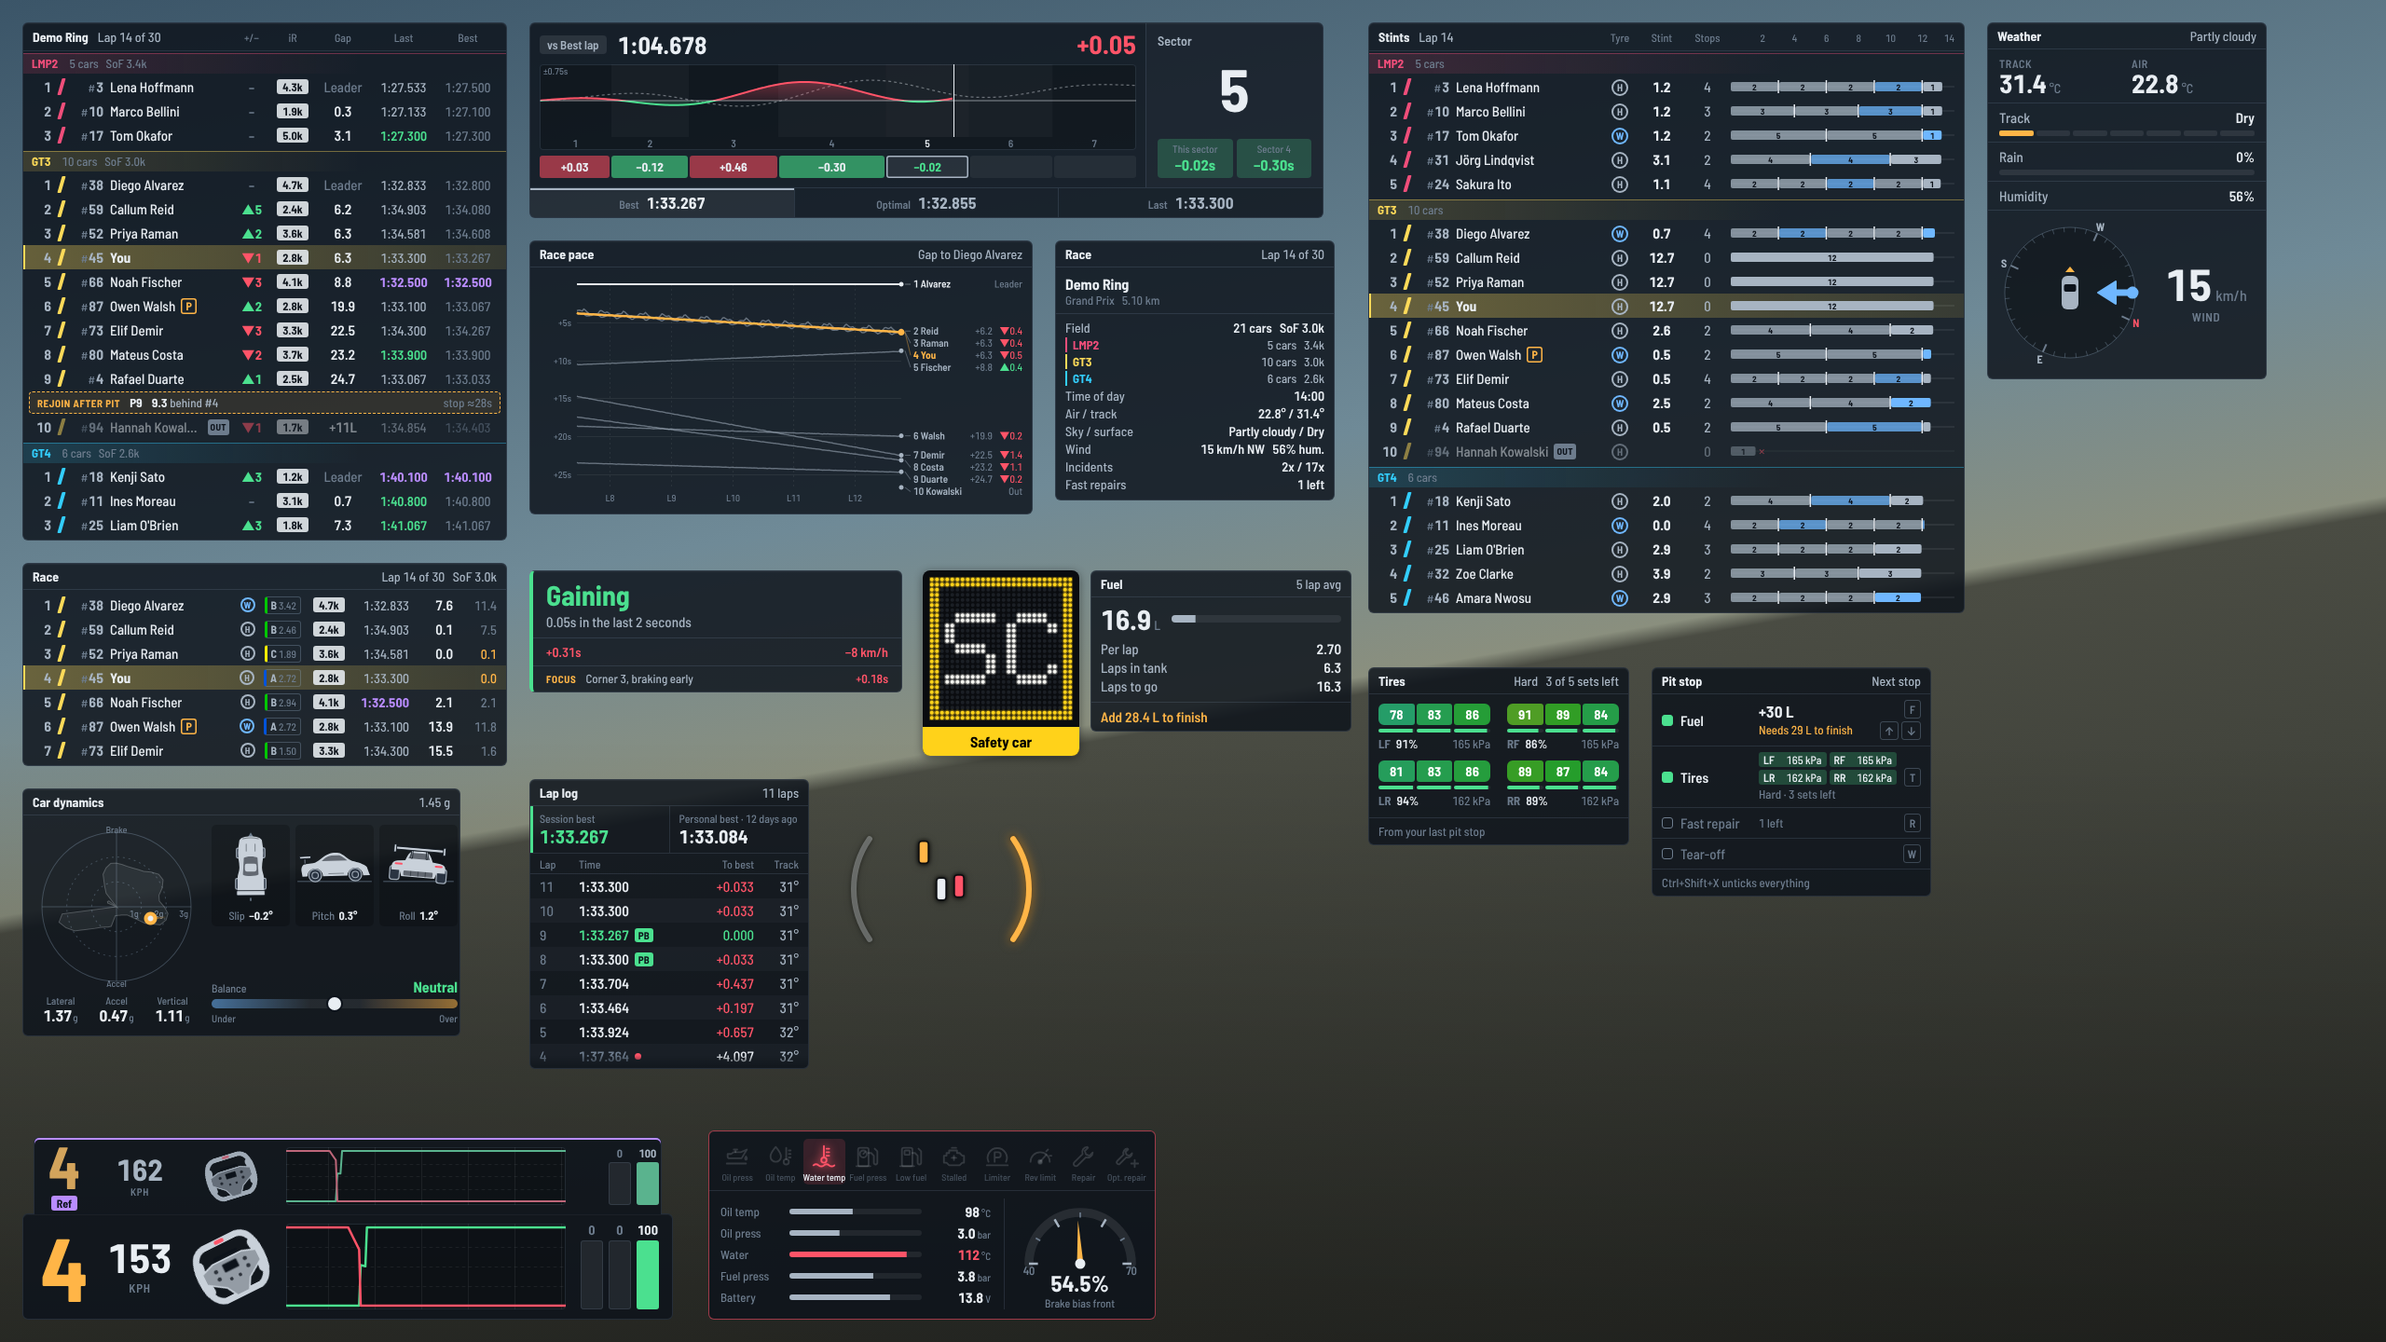
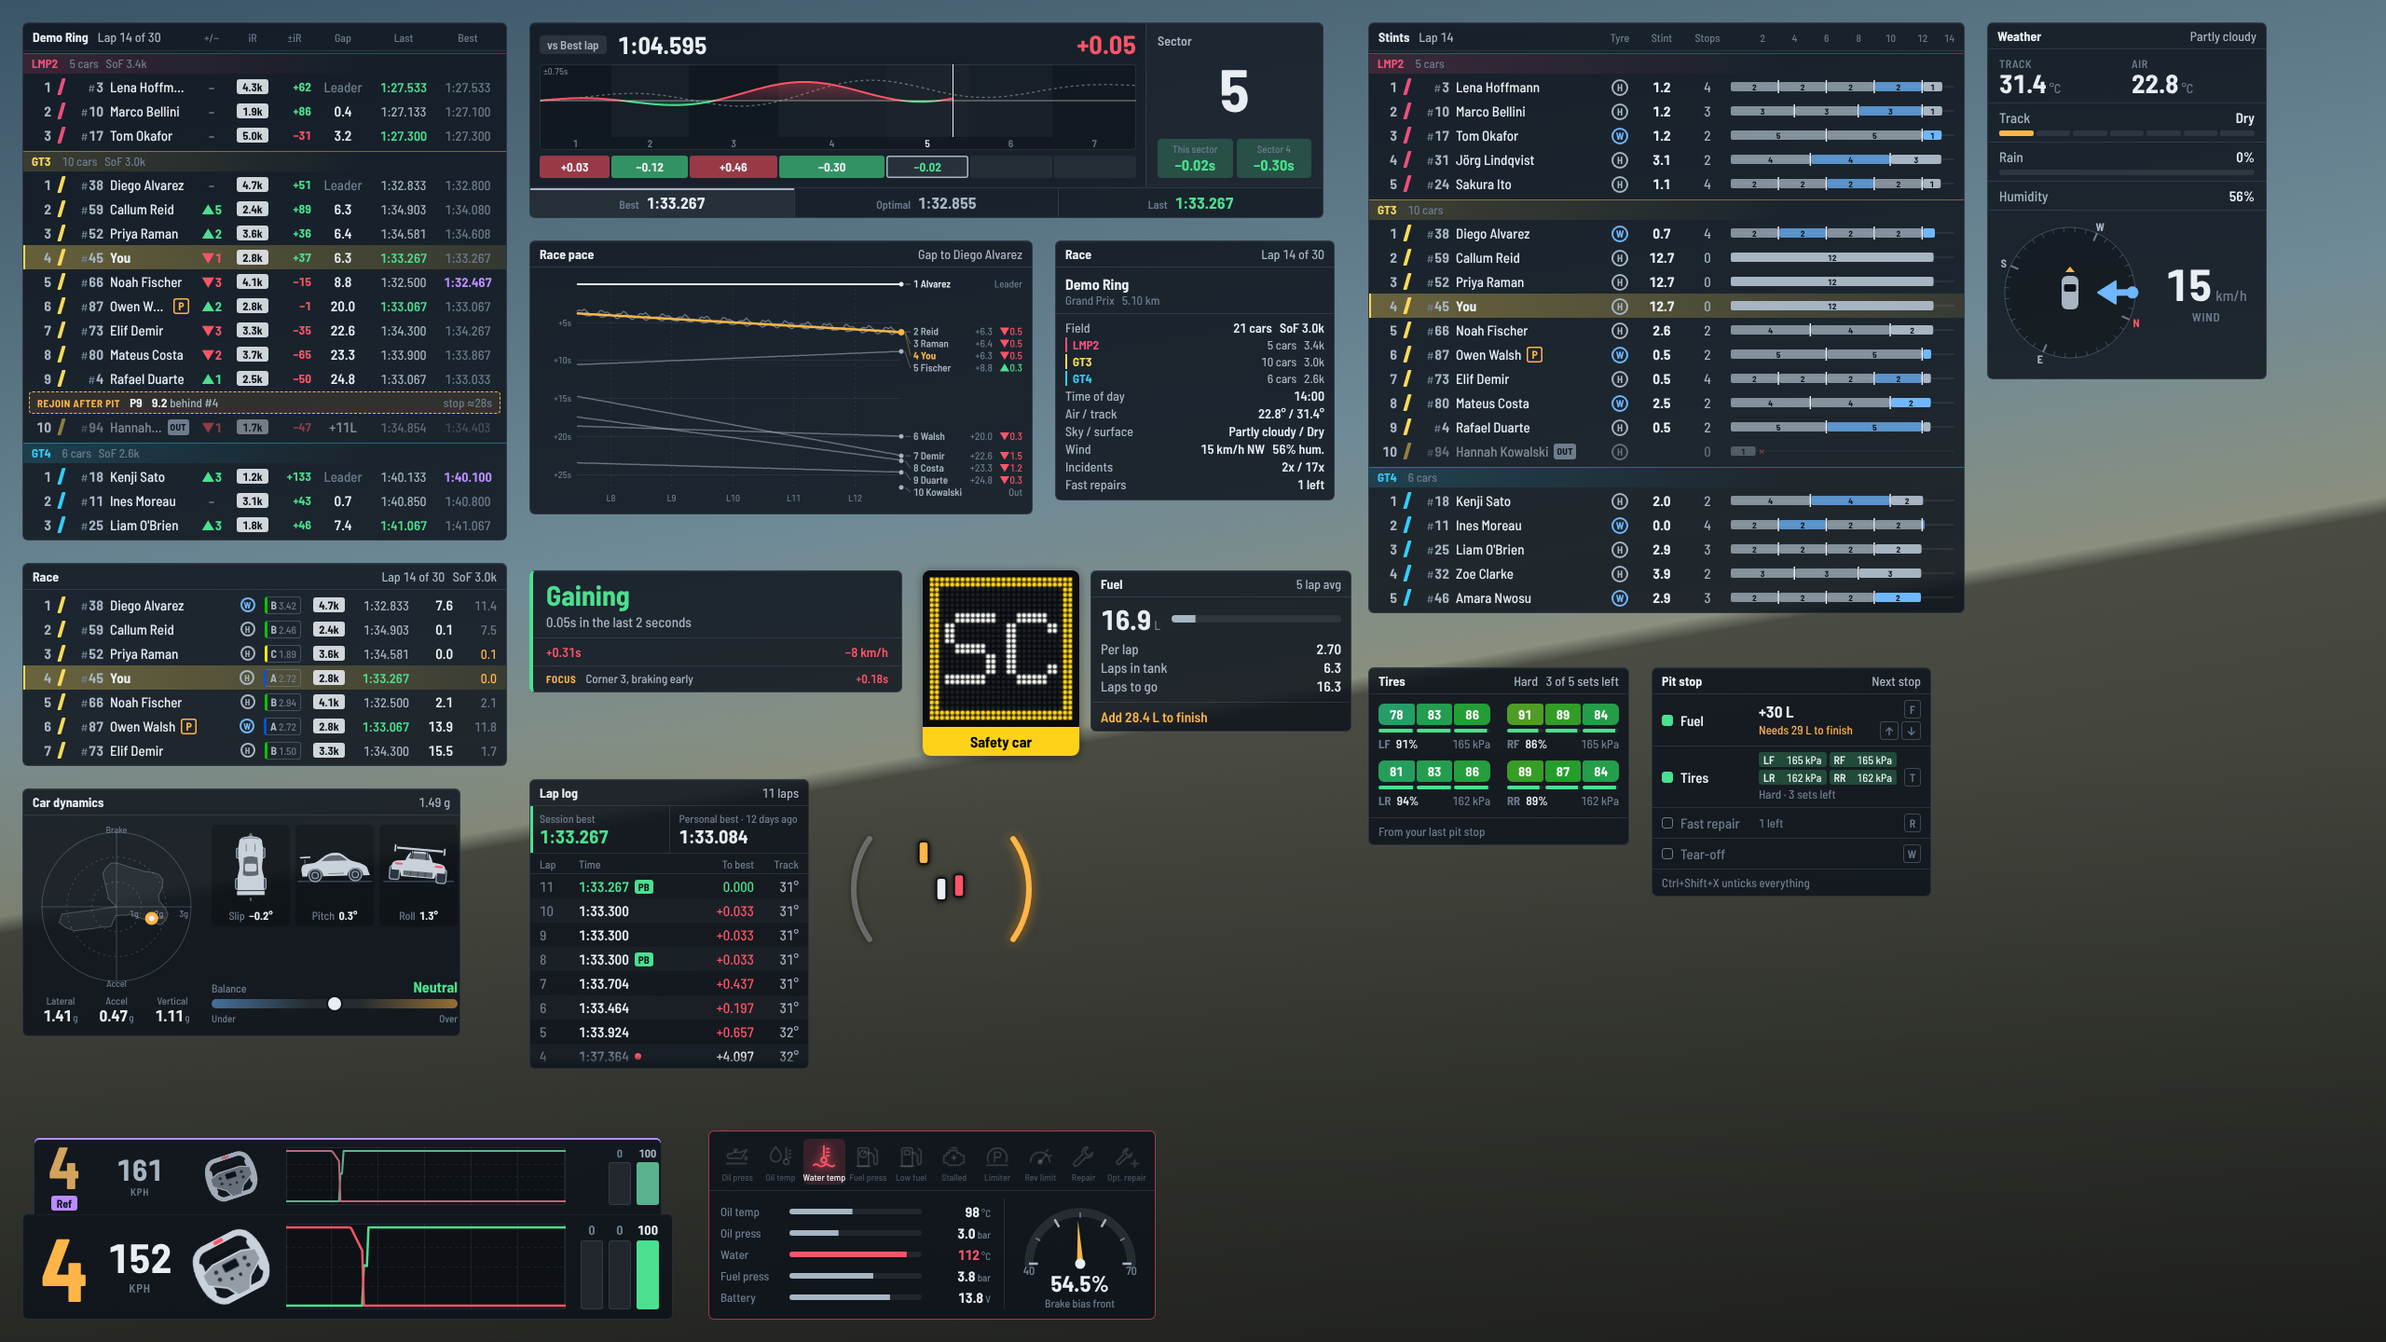
Standings: estimated iRating change
Each driver's gain or loss if the race finished now, per class, using
the community calculator (the iRacing SOF iRating Calculator spreadsheet,
ported from the irating crate and checked against its test values). Only
in official races, from WeekendInfo.Official.

Claude-Session: https://claude.ai/code/session_013hzfFXxra7Gh1adzFYjA4b

diff --git a/src/widgets/Standings.tsx b/src/widgets/Standings.tsx
@@ -2,6 +2,7 @@ import type React from "react";
 import { opt, type WidgetConfig } from "../lib/config";
 import { gap as fmtGap, irating } from "../lib/format";
 import { useLive } from "../lib/store";
+import { iratingChanges } from "../lib/irating";
 import { rejoinAfterStop, type Rejoin } from "../lib/rejoin";
 import type { StandingRow } from "../lib/types";
 import { BestLap, ClassStripe, IRatingBadge, LastLap, StatusBadge, posClass } from "./cells";
@@ -54,6 +55,8 @@ export function Standings({ config }: { config: WidgetConfig }) {
   const showIR = opt(config, "showIRating", true);
   const showSoF = opt(config, "showSoF", true);
   const race = /race/i.test(field?.clock.sessionType ?? "");
+  // Estimated iRating change: official races only, where iRating moves.
+  const showIRChange = opt(config, "showIRatingChange", true) && race && !!session?.official;
   // Positions gained or lost: only in races, and only once we know a grid.
   const showChange = opt(config, "showChange", true) && (field?.standings ?? []).some((r) => r.startPosition != null);
 
@@ -74,6 +77,7 @@ export function Standings({ config }: { config: WidgetConfig }) {
     "24px 8px 34px minmax(0, 1fr)",
     showChange && "34px",
     showIR && "40px",
+    showIRChange && "36px",
     "54px",
     showLast && "62px",
     showBest && "62px",
@@ -96,12 +100,14 @@ export function Standings({ config }: { config: WidgetConfig }) {
             </span>
             {showChange && <span title="Places gained or lost since the start">+/−</span>}
             {showIR && <span>iR</span>}
+            {showIRChange && <span title="Estimated iRating change if the race finished now">±iR</span>}
             <span>{gapMode === "interval" ? "Int" : "Gap"}</span>
             {showLast && <span>Last</span>}
             {showBest && <span>Best</span>}
           </div>
           {groups.map((g) => {
             const max = g.classId === playerClass ? myRows : otherRows;
+            const irChange = showIRChange ? classIRatingChanges(g.rows) : null;
             const sof = showSoF ? classSoF(g.classId) : null;
             return (
               <div key={g.classId} className="class-group" style={{ "--row-class": g.color } as React.CSSProperties}>
@@ -133,6 +139,7 @@ export function Standings({ config }: { config: WidgetConfig }) {
                       </span>
                       {showChange && <PlacesChange start={r.startPosition} now={r.classPosition} />}
                       {showIR && <IRatingBadge value={r.irating} />}
+                      {irChange && <IRatingChange value={irChange.get(r.carIdx)} />}
                       <span className="gap">{gapCell(r, gapMode)}</span>
                       {showLast && <LastLap time={r.lastLap} flag={r.lastFlag} />}
                       {showBest && <BestLap time={r.bestLap} fastest={r.classFastest} />}
@@ -204,6 +211,30 @@ function PlacesChange({ start, now }: { start: number | null; now: number }) {
     <span className={`change ${d > 0 ? "is-up" : "is-down"}`} title={title}>
       {d > 0 ? "▲" : "▼"}
       {Math.abs(d)}
+    </span>
+  );
+}
+
+/**
+ * Each car's estimated iRating change if the race finished as it stands.
+ * Cars that never got a position are counted as non-starters.
+ */
+function classIRatingChanges(rows: StandingRow[]): Map<number, number> {
+  const started = rows.filter((r) => r.position > 0).sort((a, b) => a.classPosition - b.classPosition);
+  const rest = rows.filter((r) => r.position <= 0);
+  return iratingChanges([
+    ...started.map((r, k) => ({ carIdx: r.carIdx, irating: r.irating, rank: k + 1, started: true })),
+    ...rest.map((r, k) => ({ carIdx: r.carIdx, irating: r.irating, rank: started.length + k + 1, started: false })),
+  ]);
+}
+
+/** +38 in green, −21 in red. */
+function IRatingChange({ value }: { value: number | undefined }) {
+  if (value == null) return <span className="ir-change" />;
+  const v = Math.round(value);
+  return (
+    <span className={`ir-change ${v > 0 ? "is-up" : v < 0 ? "is-down" : "is-same"}`} title="Estimated iRating change if the race finished now">
+      {v > 0 ? `+${v}` : v < 0 ? `−${-v}` : "0"}
     </span>
   );
 }

diff --git a/src/lib/irating.ts b/src/lib/irating.ts
@@ -1,0 +1,57 @@
+// Estimated iRating change for each driver if the race finished as it stands.
+//
+// iRacing doesn't publish its formula. This is the community one that overlays
+// and calculators use, from the "iRacing SOF iRating Calculator" spreadsheet,
+// ported line for line from the `irating` Rust crate (which follows it). It's
+// an Elo-style estimate: usually within a few points of the real change.
+//
+// Worked out per class: in multi-class races each class is rated on its own.
+
+export interface IRatingEntry {
+  carIdx: number;
+  /** iRating before the race. */
+  irating: number;
+  /** Finishing position in the class, from 1. */
+  rank: number;
+  /** False for drivers who registered but never took the start. */
+  started: boolean;
+}
+
+const BR1 = 1600 / Math.LN2;
+
+/** The chance a driver rated `a` finishes ahead of one rated `b`. */
+function chance(a: number, b: number): number {
+  const ea = Math.exp(-a / BR1);
+  const eb = Math.exp(-b / BR1);
+  return ((1 - ea) * eb) / ((1 - eb) * ea + (1 - ea) * eb);
+}
+
+/** carIdx -> estimated change (unrounded). Empty when there's no one to race. */
+export function iratingChanges(entries: IRatingEntry[]): Map<number, number> {
+  const out = new Map<number, number>();
+  const registrations = entries.length;
+  const starters = entries.filter((e) => e.started).length;
+  const nonStarters = registrations - starters;
+  if (registrations < 2 || starters === 0) return out;
+
+  // Each driver's expected number of drivers beaten (the 0.5 is themselves).
+  const expected = entries.map((a) => entries.reduce((sum, b) => sum + chance(a.irating, b.irating), 0) - 0.5);
+
+  let sumStarters = 0;
+  entries.forEach((e, i) => {
+    if (!e.started) return;
+    const fudge = ((registrations - nonStarters / 2) / 2 - e.rank) / 100;
+    const change = ((registrations - e.rank - expected[i] - fudge) * 200) / starters;
+    out.set(e.carIdx, change);
+    sumStarters += change;
+  });
+
+  if (nonStarters > 0) {
+    const sumExpectedNon = entries.reduce((sum, e, i) => sum + (e.started ? 0 : expected[i]), 0);
+    entries.forEach((e, i) => {
+      if (e.started) return;
+      out.set(e.carIdx, ((-sumStarters / nonStarters) * expected[i]) / (sumExpectedNon / nonStarters));
+    });
+  }
+  return out;
+}

diff --git a/scripts/check-irating.ts b/scripts/check-irating.ts
@@ -1,0 +1,32 @@
+// Checks the iRating estimate against the `irating` crate's own test (a
+// 28-driver race with one non-starter), which follows the community "iRacing
+// SOF iRating Calculator" spreadsheet. Run it like check-config.ts:
+//
+//   npx tsc --outDir node_modules/.cache/check --module commonjs --moduleResolution node --target ES2021 --strict --skipLibCheck scripts/check-irating.ts
+//   echo '{"type":"commonjs"}' > node_modules/.cache/check/package.json
+//   node node_modules/.cache/check/scripts/check-irating.js
+
+import { iratingChanges } from "../src/lib/irating";
+
+const field: [number, number, boolean, number][] = [
+  // iRating, started, expected change (from the crate's snapshot)
+  [1, 7526, true, 17.63672], [2, 5982, true, 25.833923], [3, 5463, true, 25.432884], [4, 4279, true, 37.92791],
+  [5, 4137, true, 33.394478], [6, 4044, true, 27.948332], [7, 3891, true, 23.814116], [8, 3612, true, 22.626814],
+  [9, 3147, true, 26.485985], [10, 2823, true, 27.702335], [11, 2715, true, 23.36419], [12, 2603, true, 19.21653],
+  [13, 2512, true, 14.53251], [14, 2352, false, 10.437519], [15, 2227, true, 8.5288105], [16, 2195, true, 2.2037997],
+  [17, 2166, true, -4.2093577], [18, 2089, true, -9.06982], [19, 1773, true, -5.7882223], [20, 1772, true, -13.086736],
+  [21, 1752, true, -19.722021], [22, 1748, true, -26.915356], [23, 1705, true, -32.73568], [24, 1662, true, -38.54108],
+  [25, 1622, true, -44.439545], [26, 1537, true, -48.679874], [27, 1464, true, -53.308353], [28, 1203, true, -50.590836],
+].map(([rank, ir, started, change]) => [rank as number, ir as number, started as boolean, change as number]);
+
+const changes = iratingChanges(field.map(([rank, irating, started]) => ({ carIdx: rank, irating, rank, started })));
+let count = 0;
+for (const [rank, , , want] of field) {
+  const got = changes.get(rank);
+  // The crate works in f32, so allow a little rounding.
+  if (got == null || Math.abs(got - want) > 0.01) throw new Error(`P${rank}: got ${got}, want ${want}`);
+  count++;
+}
+// Nobody to race: no estimate.
+if (iratingChanges([{ carIdx: 0, irating: 2000, rank: 1, started: true }]).size !== 0) throw new Error("single driver");
+console.log(`iRating checks passed (${count + 1})`);

diff --git a/src/lib/config.ts b/src/lib/config.ts
@@ -118,6 +118,7 @@ export const WIDGETS: WidgetMeta[] = [
       { key: "showChange", label: "Show places gained or lost", type: "toggle", default: true, help: "In races: each car's class position now against where it started" },
       { key: "showRejoin", label: "Show where you'd rejoin after a stop", type: "toggle", default: true, help: "In races, once a few pit stops have been timed this session: a line in your class where you'd come out if you pitted now" },
       { key: "showIRating", label: "Show iRating", type: "toggle", default: true },
+      { key: "showIRatingChange", label: "Show iRating change", type: "toggle", default: true, help: "In official races: each driver's estimated gain or loss if the race finished now, using the community iRating calculator" },
       { key: "showLast", label: "Show last lap", type: "toggle", default: true, help: "Purple for the fastest lap in class, green for a personal best" },
       { key: "showBest", label: "Show best lap", type: "toggle", default: true },
       { key: "showSoF", label: "Show strength of field", type: "toggle", default: true, help: "Per class in multi-class races" },

diff --git a/src/lib/mock.ts b/src/lib/mock.ts
@@ -370,7 +370,7 @@ class Mock {
     return {
       trackName: "Demo Ring", trackConfig: "Grand Prix", trackLengthKm: TRACK_M / 1000, sessionType: "Race",
       playerCarIdx: PLAYER, playerClassId: CLASSES[1].id, carName: "GT3 Evo", fuelMaxLtr: 120, estLapTime: 92.1,
-      shiftRpm: 8100, redlineRpm: 8600, multiclass: true, tireCompounds: ["Hard", "Wet"],
+      shiftRpm: 8100, redlineRpm: 8600, multiclass: true, official: true, tireCompounds: ["Hard", "Wet"],
       sectors: [0, 0.12, 0.25, 0.4, 0.58, 0.72, 0.86],
     };
   }

diff --git a/src/styles/overlay.css b/src/styles/overlay.css
@@ -713,6 +713,22 @@
 .change.is-same {
   color: var(--ink-3);
 }
+/* Estimated iRating change */
+.ir-change {
+  text-align: right;
+  font-size: 13px;
+  font-weight: 700;
+  font-variant-numeric: tabular-nums;
+}
+.ir-change.is-up {
+  color: var(--gain);
+}
+.ir-change.is-down {
+  color: var(--loss);
+}
+.ir-change.is-same {
+  color: var(--ink-3);
+}
 
 /* ---------- Inputs (driver HUD strip) ---------------------------------------- */
 

diff --git a/src/lib/types.ts b/src/lib/types.ts
@@ -21,6 +21,8 @@ export interface SessionPayload {
   shiftRpm: number;
   redlineRpm: number;
   multiclass: boolean;
+  /** An official session, where iRating changes. */
+  official: boolean;
   tireCompounds: string[];
   /** Where each timing sector starts, as a fraction of the lap. */
   sectors: number[];

diff --git a/crates/telemetry/src/session.rs b/crates/telemetry/src/session.rs
@@ -65,6 +65,8 @@ pub struct SessionInfo {
     /// WeekendOptions.FastRepairsLimit; None when unlimited.
     pub fast_repairs_limit: Option<i32>,
     pub team_racing: bool,
+    /// WeekendInfo.Official: an official session, where iRating changes.
+    pub official: bool,
     /// Qualifying order (QualifyResultsInfo.Results): car indices, fastest first.
     pub qualifying: Vec<i32>,
 }
@@ -199,6 +201,7 @@ pub fn parse(yaml: &str) -> Result<SessionInfo, serde_yaml::Error> {
         incident_limit: int(&weekend["WeekendOptions"]["IncidentLimit"]),
         fast_repairs_limit: int(&weekend["WeekendOptions"]["FastRepairsLimit"]),
         team_racing: int(&weekend["TeamRacing"]).unwrap_or(0) != 0,
+        official: int(&weekend["Official"]).unwrap_or(0) != 0,
         qualifying: {
             let mut q: Vec<(i64, i32)> = root["QualifyResultsInfo"]["Results"]
                 .as_sequence()

diff --git a/crates/telemetry/src/model.rs b/crates/telemetry/src/model.rs
@@ -222,6 +222,8 @@ pub struct SessionPayload {
     pub shift_rpm: f32,
     pub redline_rpm: f32,
     pub multiclass: bool,
+    /// An official session, where iRating changes.
+    pub official: bool,
     /// Tire compound names indexed by compound number, e.g. ["Hard", "Wet"].
     pub tire_compounds: Vec<String>,
     /// Where each timing sector starts, as a fraction of the lap (first is 0).

diff --git a/crates/telemetry/src/engine.rs b/crates/telemetry/src/engine.rs
@@ -120,6 +120,7 @@ impl Engine {
             shift_rpm: s.shift_rpm,
             redline_rpm: s.redline_rpm,
             multiclass: s.is_multiclass(),
+            official: s.official,
             tire_compounds: s.tire_compounds.clone(),
             sectors: s.sectors.clone(),
         }

diff --git a/crates/telemetry/src/demo.rs b/crates/telemetry/src/demo.rs
@@ -461,6 +461,7 @@ WeekendInfo:
  TrackConfigName: Grand Prix
  TrackLength: 5.10 km
  TeamRacing: 0
+ Official: 1
  WeekendOptions:
   IncidentLimit: 17
   FastRepairsLimit: 1

diff --git a/docs/ARCHITECTURE.md b/docs/ARCHITECTURE.md
@@ -189,6 +189,17 @@ fuel amount of 0 keeps the amount already set.
   that to your gap to the class leader and counts which cars' gaps are
   smaller: those come out ahead of you. Nothing shows outside races, before
   there's an average, or while you're in the pit lane.
+- **iRating change** (`src/lib/irating.ts`): the community estimate (the
+  "iRacing SOF iRating Calculator" spreadsheet, ported from the `irating`
+  crate and checked against its test in `scripts/check-irating.ts`). With
+  BR1 = 1600 / ln 2, the chance a beats b is
+  `(1 - e^(-a/BR1)) e^(-b/BR1) / ((1 - e^(-b/BR1)) e^(-a/BR1) + (1 - e^(-a/BR1)) e^(-b/BR1))`;
+  expected score is the sum over the field minus 0.5; a starter's change is
+  `(N - rank - expected - fudge) * 200 / starters` with
+  `fudge = ((N - nonStarters/2) / 2 - rank) / 100`; non-starters share the
+  negative of the starters' total by expected score. Worked out per class from
+  the Standings rows (cars without a position are non-starters), and only shown
+  in races when `WeekendInfo.Official` is set (`session.official`).
 - **Race pace** (`src/lib/raceHistory.ts`): built in the front end from the
   Standings rows (gap to class leader, which is the `CarIdxF2Time` difference
   in races). Fed from every 10 Hz field update outside React, like
